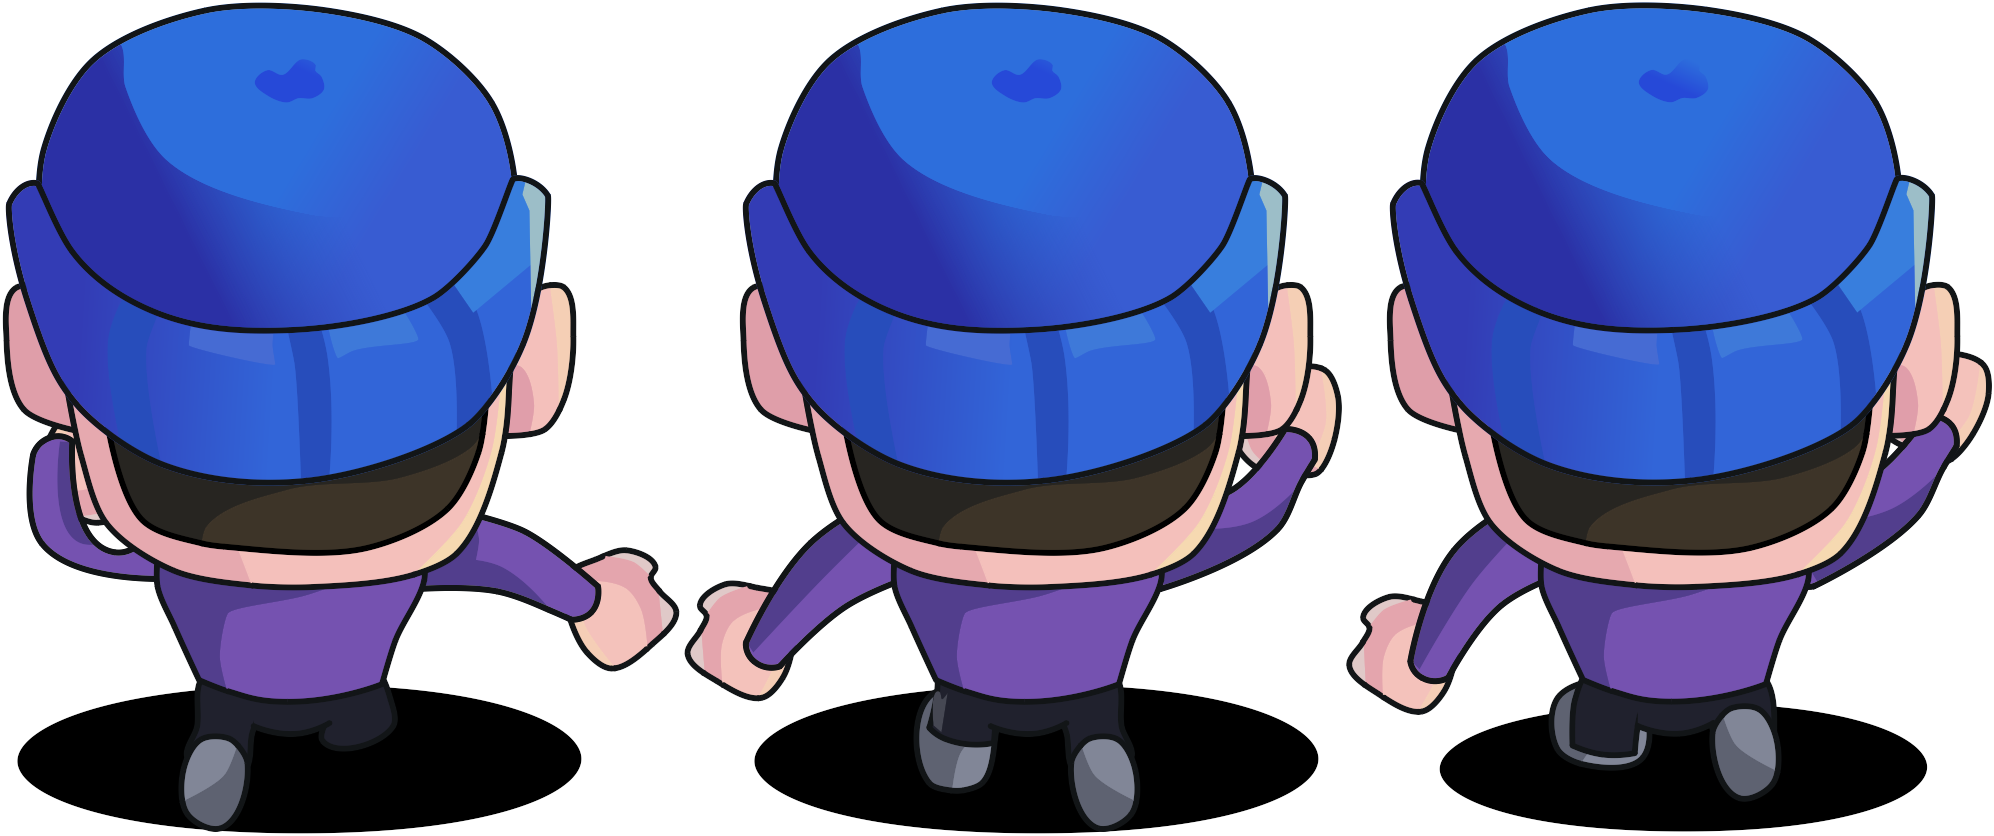
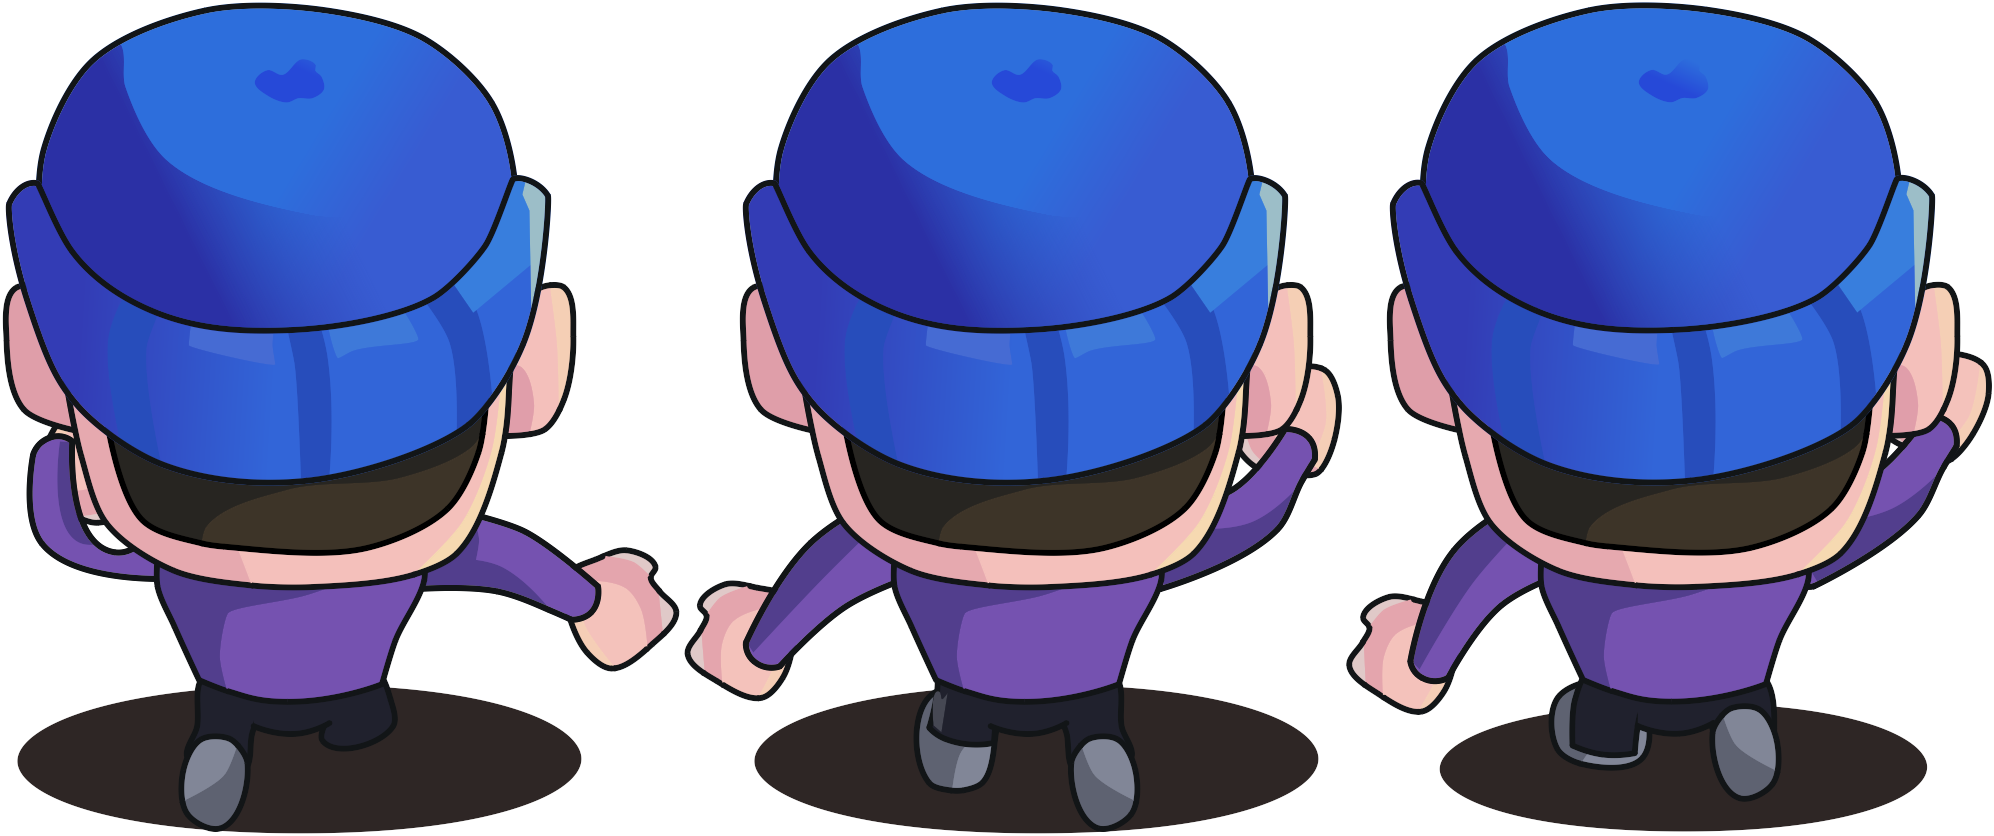
fix: shadow animation for goon

Changed region(s): [[0.3731, 0.8086, 0.6841, 1.0], [0.0, 0.8086, 0.3109, 1.0], [0.7151, 0.8397, 0.9639, 0.9952]]

diff --git a/app/src/pages/Game/components/common/Animation.js b/app/src/pages/Game/components/common/Animation.js
@@ -67,7 +67,7 @@ class Animation extends Phaser.GameObjects.Container {
       start: 1,
       end: 78,
       zeroPad: 5,
-      prefix: 'goon back view and front view_',
+      prefix: 'goon_back_view_running_cycle_',
       suffix: '.png',
     });
 
@@ -110,7 +110,7 @@ class Animation extends Phaser.GameObjects.Container {
     });
 
     scene.game.events.on('animation-gangster-front', () => {
-      this.coinbagPickupSound.play()
+      this.coinbagPickupSound.play();
       this.gangsterAction = 'front';
       this.gangsterBack.anims.stop();
       this.gangsterBack.setVisible(false);
